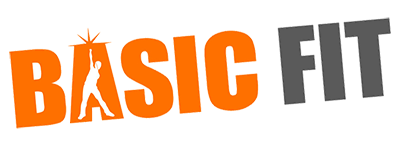
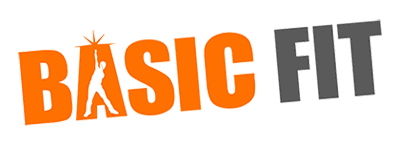
commit

Changed region(s): [[0.0, 0.1931, 0.66, 0.8828], [0.66, 0.1103, 0.99, 0.7172], [0.51, 0.5793, 0.54, 0.6345]]

diff --git a/index.html b/index.html
@@ -116,34 +116,31 @@
 
         <div class="section-title" data-aos="fade-up">
           <h2>Services</h2>
-          <p>Here's my coaching formula.</p>
+          <p>Here's my coaching formulas.</p>
         </div>
 
         <div class="row" style="margin-bottom: 10vh;">
           <div class="col-lg-6 order-2 order-lg-1 services-box">
-            <h3>Personal Training Program</h3>
             <div class="icon-box mt-5 mt-lg-0" data-aos="fade-up">
-              <i class="icofont-dumbbell"></i>
-              <h4>Physical Training</h4>
-              <p>Individual workout plan, at home or at the gym, tailored to your goals and changing every 8 weeks to set new variety and adapt to your body new strenght.</p>
+              <i class="icofont-muscle-weight"></i>
+              <h4>Personal Training Package</h4>
+              <p>Individual workout and nutrition plan adapted to you, your fitness goals and lifestyle. It also includes mental training and progression tracking.</p>
+              <a href="./personal-training.html"><div class="learn-more-btn">Learn More</div></a>
             </div>
             <div class="icon-box mt-5" data-aos="fade-up" data-aos-delay="100">
-              <i class="icofont-brainstorming"></i>
-              <h4>Mental Training</h4>
-              <p>The most important factor to keep your results in the long term and to develop a healthy attitude towards this lifestyle is to have the right mindset.</p>
+              <i class="icofont-trophy"></i>
+              <h4>Posing Lessons</h4>
+              <p>Lessons to teach you the latest posing techniques, transitions, stage walks and presentation requirements following federation latest requirements.</p>
+              <a href="./posing-lessons.html"><div class="learn-more-btn">Learn More</div></a>
             </div>
             <div class="icon-box mt-5" data-aos="fade-up" data-aos-delay="200">
               <i class="icofont-spoon-and-fork"></i>
-              <h4>Nutrition</h4>
-              <p>Individual diet plan adapted to your food preferences and intolerances (allergies, vegan, vegetarian, etc).</p>
-            </div>
-            <div class="icon-box mt-5" data-aos="fade-up" data-aos-delay="300">
-              <i class="icofont-chart-growth"></i>
-              <h4>Tracking</h4>
-              <p>We will track your progress directly with my fitness app and regularly adapt our plans accordingly.</p>
+              <h4>Macros-Nutrition Calculation</h4>
+              <p>I will teach you how much macro-nutrients you need to eat daily to achieve your Fitness goals safely.</p>
+              <a href="./macros-calculation.html"><div class="learn-more-btn">Learn More</div></a>
             </div>
           </div>
-          <div class="col-lg-6 order-1 order-lg-2" data-aos="fade-left" data-aos-delay="100"><img class="img-fluid" src="assets/img/training-program.jpg" alt="Fitnees posing"></div>
+          <div class="col-lg-6 order-1 order-lg-2" data-aos="fade-left" data-aos-delay="100"><img class="img-fluid" src="assets/img/services.jpg" alt="Fitnees posing"></div>
         </div>
       </div>
     </section><!-- End Services Section -->
@@ -304,30 +301,30 @@
     <section id="sponsors" class="sponsors">
       <div class="container">
         <h3>Sponsors</h3>
-        <div class="row">
+        <div class="row sponsor-img-container">
 
           <div class="col-lg-2 col-md-4 col-6" data-aos="zoom-in" data-aos-delay="400">
-            <img src="assets/img/sponsors/sponsor-5.png" class="img-fluid" alt="">
+            <a href="https://womens.best/maiterichert" target="_blank"><img src="assets/img/sponsors/sponsor-5-1.png" id="womens-best" class="img-fluid" alt="Women's Best"></a>
           </div>
 
           <div class="col-lg-2 col-md-4 col-6" data-aos="zoom-in" data-aos-delay="500">
-            <img src="assets/img/sponsors/sponsor-6.png" class="img-fluid" alt="">
-          </div>
-
-          <div class="col-lg-2 col-md-4 col-6" data-aos="zoom-in">
-            <img src="assets/img/sponsors/sponsor-1.png" class="img-fluid" alt="">
-          </div>
-
-          <div class="col-lg-2 col-md-4 col-6" data-aos="zoom-in" data-aos-delay="100">
-            <img src="assets/img/sponsors/sponsor-2.png" class="img-fluid" alt="">
-          </div>
-
-          <div class="col-lg-2 col-md-4 col-6" data-aos="zoom-in" data-aos-delay="200">
-            <img src="assets/img/sponsors/sponsor-3.png" class="img-fluid" alt="">
+            <a href="https://www.ryderwear.com/maite" target="_blank"><img src="assets/img/sponsors/sponsor-6.png" class="img-fluid" alt="Ryderwear"></a>
           </div>
 
           <div class="col-lg-2 col-md-4 col-6" data-aos="zoom-in" data-aos-delay="300">
-            <img src="assets/img/sponsors/sponsor-4.png" class="img-fluid" alt="">
+            <a href="https://wbffshows.com" target="_blank"><img src="assets/img/sponsors/sponsor-4-1.png" id="wbff" class="img-fluid" alt="WBFF"></a>
+          </div>
+
+          <div class="col-lg-2 col-md-4 col-6" data-aos="zoom-in" data-aos-delay="100">
+            <a href="https://www.amazon.de/stores/node/19654276031?_encoding=UTF8&field-lbr_brands_browse-bin=Fitgriff&ref_=bl_dp_s_web_19654276031&_encoding=UTF8&tag=maite03-21&linkCode=ur2&linkId=45540dc51e0b104622d7d53318ee6fc2&camp=1638&creative=6742" target="_blank"><img src="assets/img/sponsors/sponsor-2.png" class="img-fluid" alt="FitGriff"></a>
+          </div>
+
+          <div class="col-lg-2 col-md-4 col-6" data-aos="zoom-in" data-aos-delay="200">
+            <a href="https://factory4.lu" target="_blank"><img src="assets/img/sponsors/sponsor-3-1.png" id="f4" class="img-fluid" alt="Factory 4"></a>
+          </div>
+
+          <div class="col-lg-2 col-md-4 col-6" data-aos="zoom-in">
+            <a href="https://www.basic-fit.com" target="_blank"><img src="assets/img/sponsors/sponsor-1.png" class="img-fluid" alt="Basic Fit"></a>
           </div>
 
         </div>

diff --git a/assets/css/style.css b/assets/css/style.css
@@ -553,7 +553,7 @@ section {
   font-size: 48px;
   float: left;
   color: #929699;
-  padding: 10px 15px 50px 15px;
+  padding: 20px 0;
 }
 
 .services .icon-box p {
@@ -567,6 +567,22 @@ section {
   text-align: center;
   font-size: 25px;
   font-weight: 600;
+}
+
+.learn-more-btn {
+  padding: 10px 20px;
+  background-color: #8ccfee;
+  color: #fff;
+  font-size: 18px;
+  font-weight: 600;
+  border-radius: 5px;
+  transition: 0.3s;
+  width: fit-content;
+  margin-left: 60px;
+}
+
+.learn-more-btn:hover {
+  background-color: #48b2e4;
 }
 
 /*--------------------------------------------------------------
@@ -1156,7 +1172,6 @@ section {
 }
 
 .sponsors img {
-  width: 80%;
   -webkit-filter: grayscale(100);
   filter: grayscale(100);
   transition: all 0.4s ease-in-out;
@@ -1180,6 +1195,16 @@ section {
   .sponsors img {
     width: 60%;
   }
+}
+
+#f4, #wbff, #womens-best {
+  height: 120px;;
+}
+
+.sponsor-img-container {
+  display: flex;
+  justify-content: center;
+  align-items: center;
 }
 
 /*--------------------------------------------------------------
@@ -1563,7 +1588,10 @@ section {
 }
 
 .contact .php-email-form button[type="submit"] {
-  background: #f3aeba;
+  background: #8ccfee;
+  font-weight: 600;
+  font-size: 18px;
+  letter-spacing: 1px;
   border: 0;
   padding: 10px 24px;
   color: #fff;
@@ -1572,7 +1600,7 @@ section {
 }
 
 .contact .php-email-form button[type="submit"]:hover {
-  background: #ef98a8;
+  background: #48b2e4;
 }
 
 @-webkit-keyframes animate-loading {
@@ -1654,7 +1682,7 @@ section {
 }
 
 .price {
-  color: #f3aeba;
+  color: #8ccfee;
 }
 
 .program-details .program-info {
@@ -1713,20 +1741,19 @@ section {
 }
 
 .program-cta {
-  color: #000;
-  background-color: #f3aeba;
+  color: #fff;
+  background-color: #8ccfee;
   font-size: 18px;
   font-weight: 600;
-  border-radius: 50px;
-  padding: 20px 30px;
+  border-radius: 5px;
+  padding: 15px 30px;
   width: fit-content;
   margin: 50px auto;
   transition: 0.3s;
 }
 
 .program-cta:hover {
-  background-color: #f6c4cd;
-  color: #fff;
+  background-color: #48b2e4;
 }
 
 @media (max-width: 768px) {
